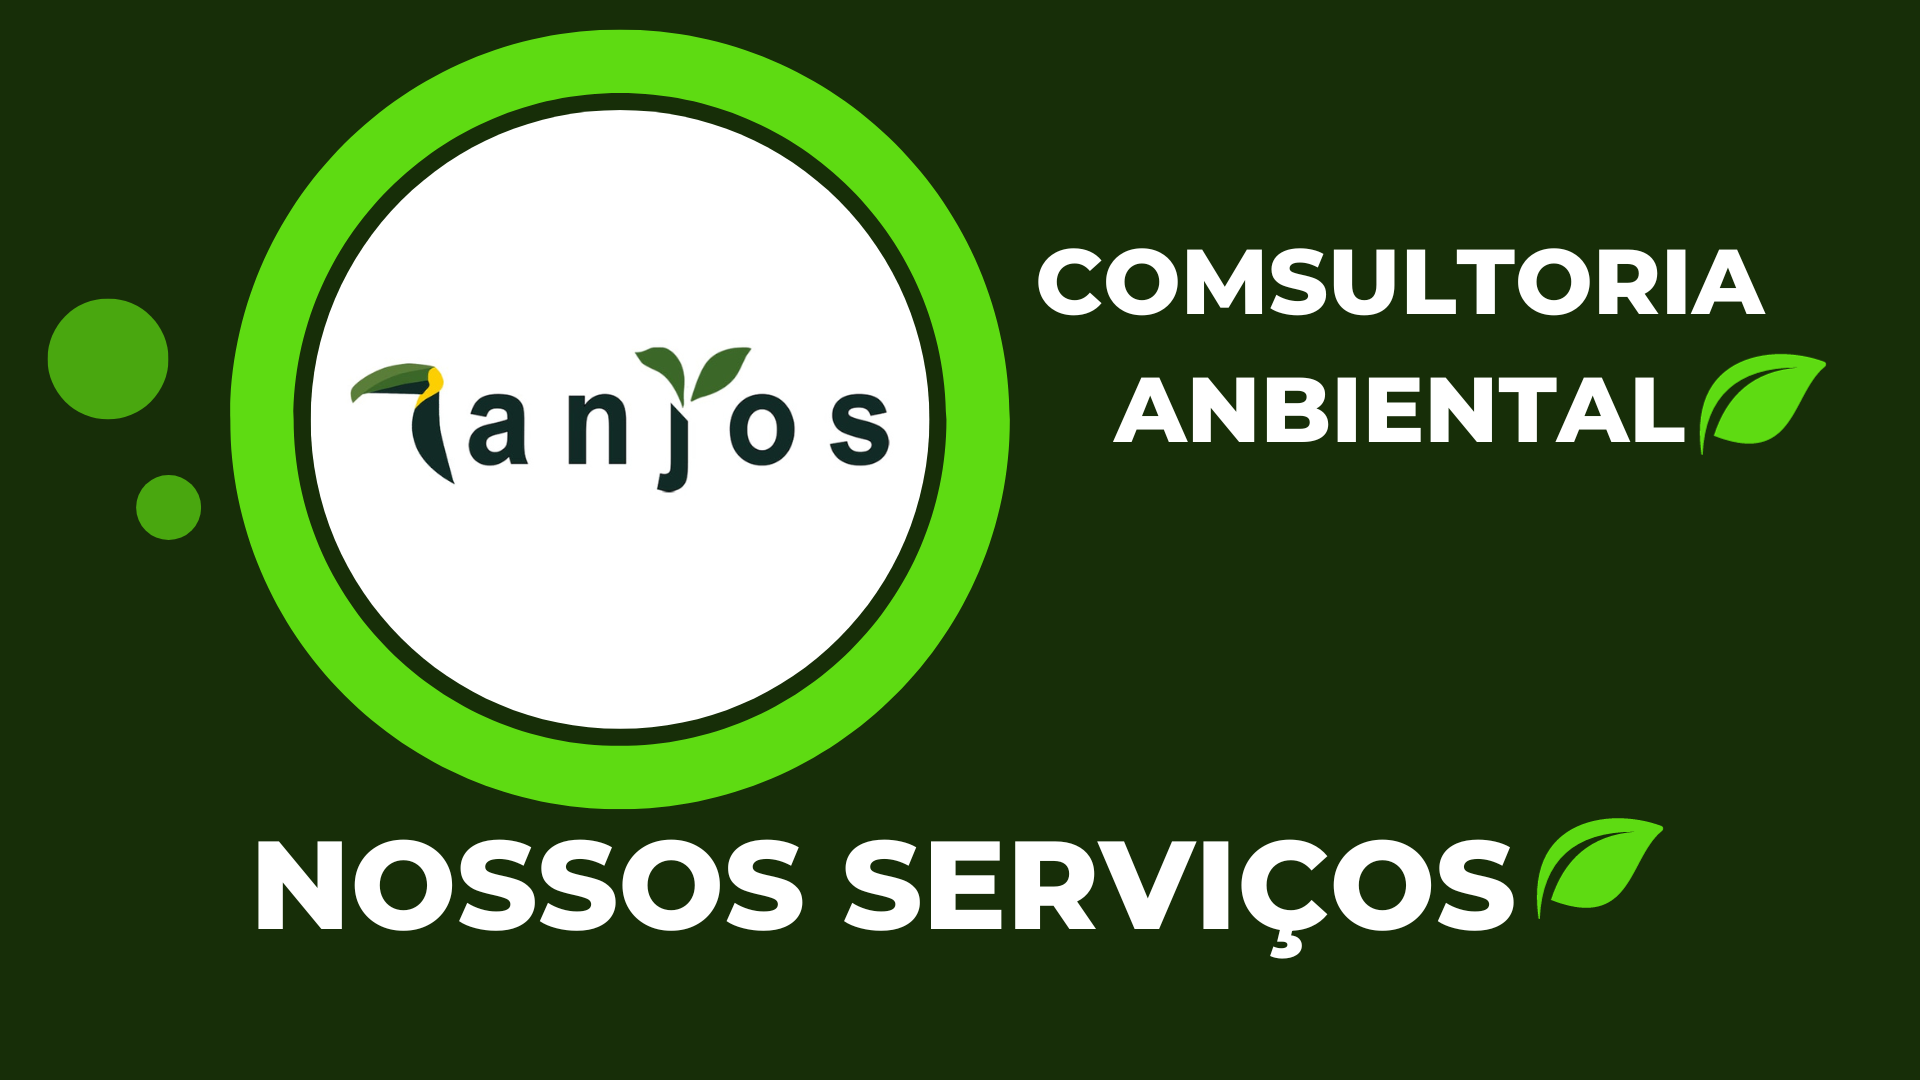
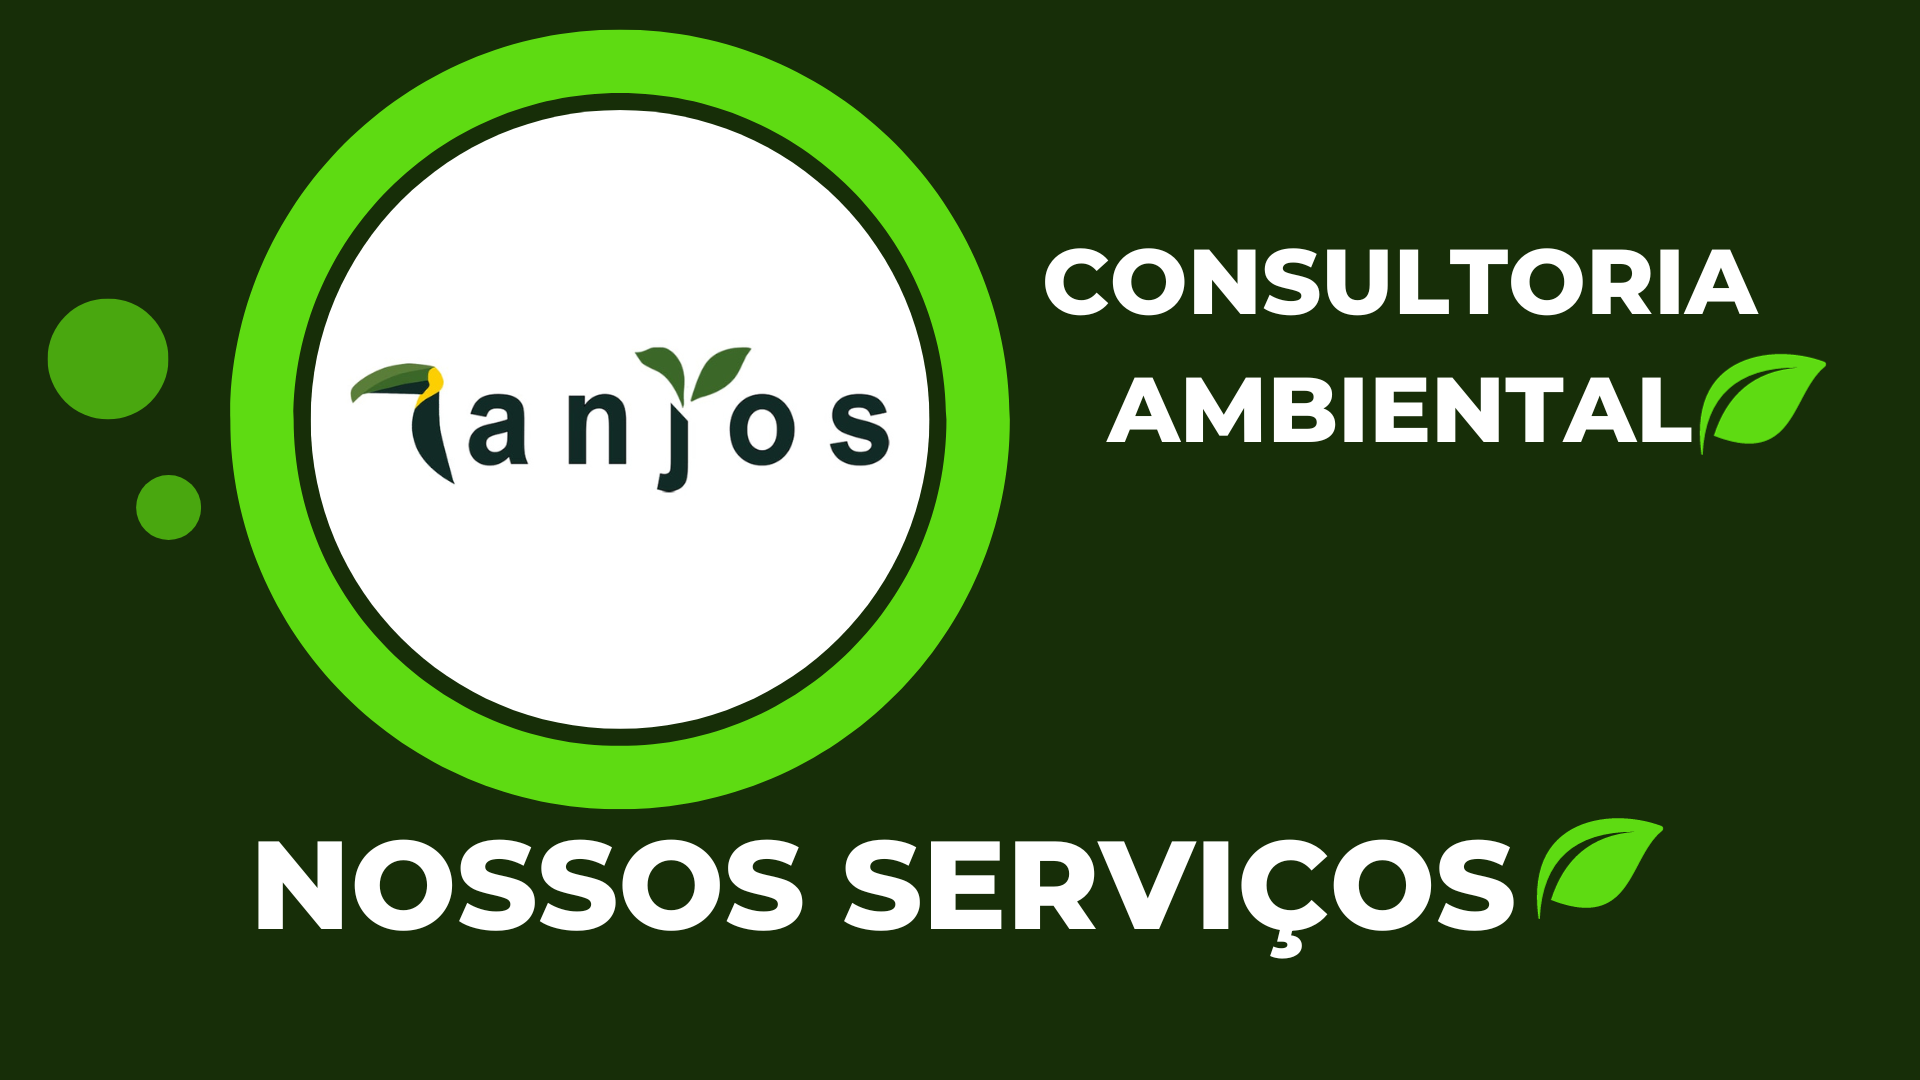
z
z

Changed region(s): [[0.5312, 0.2139, 0.9375, 0.3056], [0.5625, 0.3361, 0.875, 0.4278]]

diff --git a/serviçosRealizados.html b/serviçosRealizados.html
@@ -13,14 +13,14 @@
 <body>
         <div class="row">
             <div class="sidebar">
-                <a href="/index.html">Consultoria Anbiental</a>
+                <a href="/index.html">Consultoria Ambiental</a>
                 <a href="/nossosServiços.html">NOSSOS SERVIÇOS</a>
                 <a href="/serviçosRealizados.html">SERVIÇOS REALIZADOS</a>
                 <a href="/faleConosco.html">fale conosco</a>
             </div>
 
             <header>
-                <h1 onclick="toggleSidebar()"> <img src="" alt=""> ☰ Consultoria Anbiental</h1>
+                <h1 onclick="toggleSidebar()"> <img src="" alt=""> ☰ Consultoria Ambiental</h1>
             </header>
         </div>
 
@@ -95,6 +95,111 @@
                 <div class="borda">
                     <h2>Projetos Socioeducacionais e Socioeconômicos</h2>
                 </div>
+            </div>
+            </div>
+        </div>
+
+        <div class="container text-center">
+            <div class="row">
+            <div class="col">
+                <div class="texto" style="background-color:green;">  
+                    <h1>PESSOAS FÍSICAS:</h1>        
+                </div> 
+            </div>
+            </div>
+        </div>
+
+        <div class="container text-center">
+            <div class="row">
+            <div class="col">
+
+                <div class="borda">
+                    <h2>Petição de Inquérito Policial</h2>
+                </div>
+                <div class="borda">
+                    <h2>Resposta à Denúncia</h2>
+                </div>
+                <div class="borda">
+                    <h2>Georreferenciamento</h2>
+                </div>
+                <div class="borda">
+                    <h2>Geoprocessamento</h2>
+                </div>
+                <div class="borda">
+                    <h2>Licenciamento Ambiental</h2>
+                </div>
+            </div>
+            </div>
+        </div>
+        <div class="container text-center">
+            <div class="row">
+            <div class="col">
+                <div class="texto" style="background-color:green;">  
+                    <h1>COOPERATIVA AGROPECUÁRIA DE AGUIARNOPOLIS – TO</h1>        
+                </div> 
+            </div>
+            </div>
+        </div>
+
+        <div class="container text-center">
+            <div class="row">
+            <div class="col">
+
+                <div class="borda">
+                    <h2>Consultoria Ambiental</h2>
+                </div>
+                <div class="borda">
+                    <h2>Projetos topográficos</h2>
+                </div>
+                <div class="borda">
+                    <h2>Levantamentos geográficos</h2>
+                </div>    
+            </div>
+            </div>
+        </div>
+        <div class="container text-center">
+            <div class="row">
+            <div class="col">
+                <div class="texto" style="background-color:green;">  
+                    <h1>COMARCA DE SERRANÓPOLIS – GO</h1>        
+                </div> 
+            </div>
+            </div>
+        </div>
+
+        <div class="container text-center">
+            <div class="row">
+            <div class="col">
+
+                <div class="borda">
+                    <h2>Perícia Técnica</h2>
+                </div> 
+            </div>
+            </div>
+        </div>
+        <div class="container text-center">
+            <div class="row">
+            <div class="col">
+                <div class="texto" style="background-color:green;">  
+                    <h1>GOIAS CONTAINER E GUINDASTE</h1>        
+                </div> 
+            </div>
+            </div>
+        </div>
+
+        <div class="container text-center">
+            <div class="row">
+            <div class="col">
+
+                <div class="borda">
+                    <h2>Licenciamento Ambiental</h2>
+                </div> 
+                <div class="borda">
+                    <h2>Consultoria Ambiental</h2>
+                </div> 
+                <div class="borda">
+                    <h2>Assessoria Ambiental</h2>
+                </div> 
             </div>
             </div>
         </div>

diff --git a/index.html b/index.html
@@ -14,14 +14,14 @@
         <div class="row">
             <!-- Barra lateral -->
             <div class="sidebar">
-                <a href="/index.html">Consultoria Anbiental</a>
+                <a href="/index.html">Consultoria Ambiental</a>
                 <a href="/nossosServiços.html">NOSSOS SERVIÇOS</a>
                 <a href="/serviçosRealizados.html">SERVIÇOS REALIZADOS</a>
                 <a href="/faleConosco.html">fale conosco</a>
             </div>
 
             <header>
-                <h1 onclick="toggleSidebar()"> <img src="" alt=""> ☰ Consultoria Anbiental</h1>
+                <h1 onclick="toggleSidebar()"> <img src="" alt=""> ☰ Consultoria Ambiental</h1>
             </header>
         </div>
 

diff --git a/nossosServiços.html b/nossosServiços.html
@@ -13,14 +13,14 @@
 <body>
         <div class="row">
             <div class="sidebar">
-                <a href="/index.html">Consultoria Anbiental</a>
+                <a href="/index.html">Consultoria Ambiental</a>
                 <a href="/nossosServiços.html">NOSSOS SERVIÇOS</a>
                 <a href="/serviçosRealizados.html">SERVIÇOS REALIZADOS</a>
                 <a href="/faleConosco.html">fale conosco</a>
             </div>
 
             <header>
-                <h1 onclick="toggleSidebar()"> <img src="" alt=""> ☰ Consultoria Anbiental</h1>
+                <h1 onclick="toggleSidebar()"> <img src="" alt=""> ☰ Consultoria Ambiental</h1>
             </header>
         </div>
 
